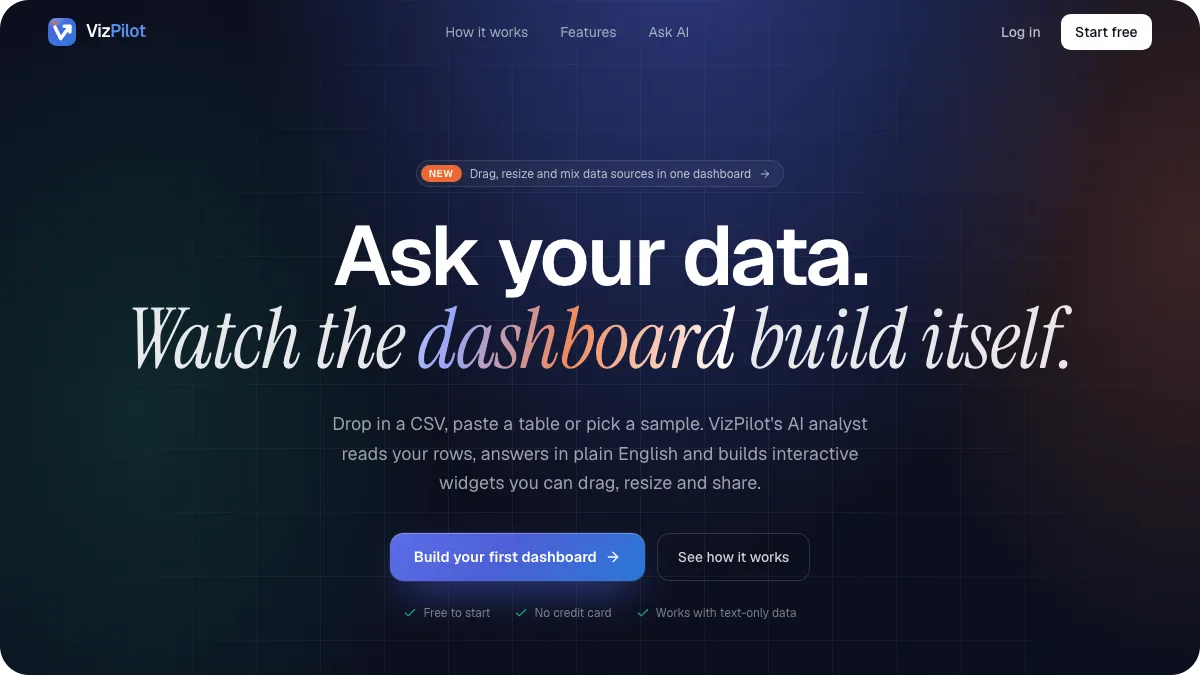
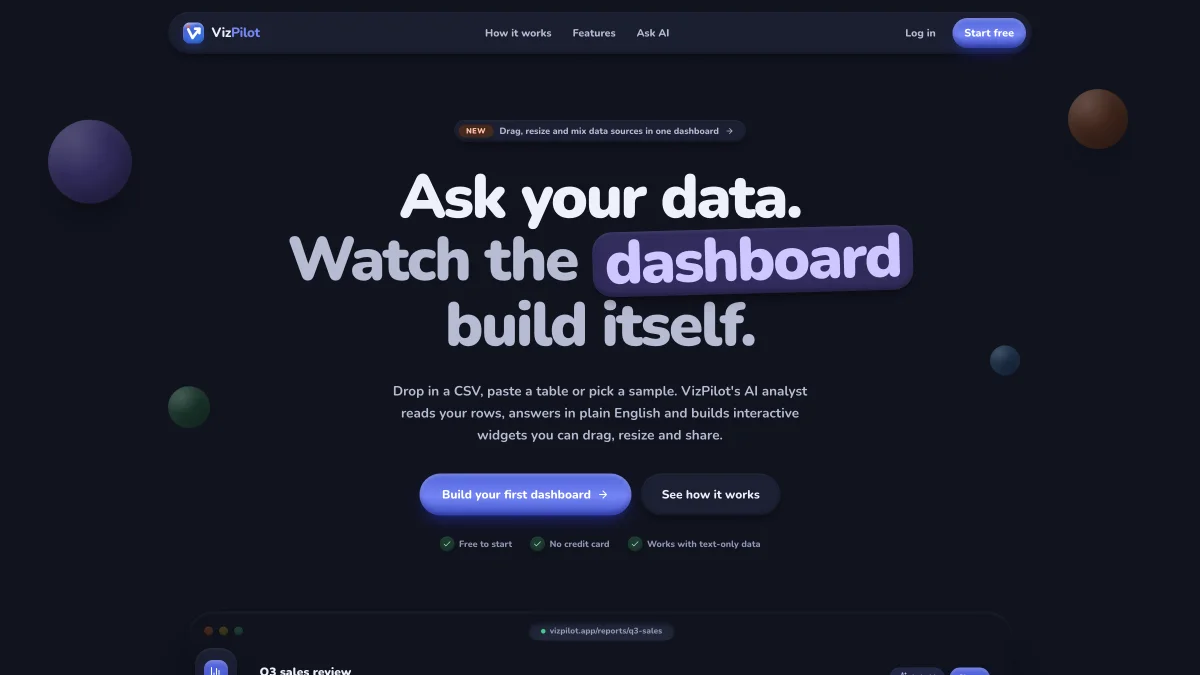
Enhance VizPilot project description in README with details on claymorphism UI and updated tech stack, and replace project image with a new version.

diff --git a/README.md b/README.md
@@ -47,7 +47,7 @@ I'm a full-stack developer (he/him) who likes taking a product from idea to laun
   </tr>
   <tr>
     <td width="50%" valign="top">
-      <a href="https://vizpilot-puce.vercel.app"><img src="https://raw.githubusercontent.com/MayankJha0333/MayankJha0333/main/assets/projects/vizpilot.webp" alt="VizPilot — AI dashboard builder" width="100%"></a>
+      <a href="https://vizpilot-puce.vercel.app"><img src="https://raw.githubusercontent.com/MayankJha0333/MayankJha0333/main/assets/projects/vizpilot.webp" alt="VizPilot — AI dashboard builder with a claymorphism UI" width="100%"></a>
       <h3>VizPilot</h3>
       <p>Ask your data a question and watch the dashboard build itself. Drop in a CSV and an AI analyst answers in plain English, then builds charts you can drag, resize, restyle and share.</p>
       <p><sub>Next.js · TypeScript · MongoDB · Firebase · Recharts</sub></p>
